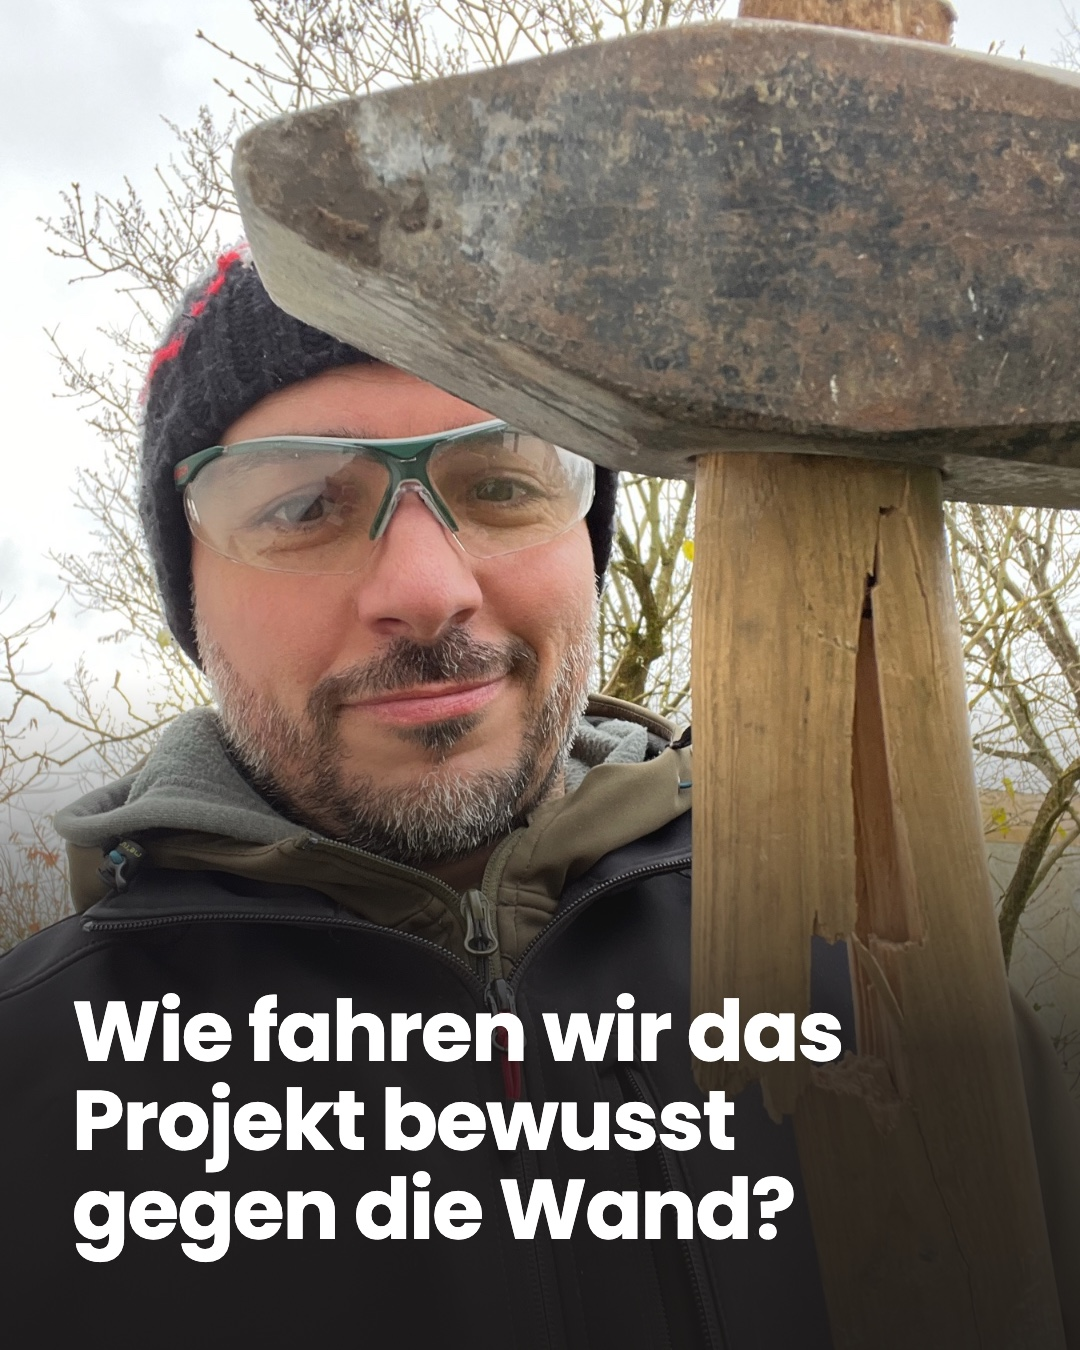
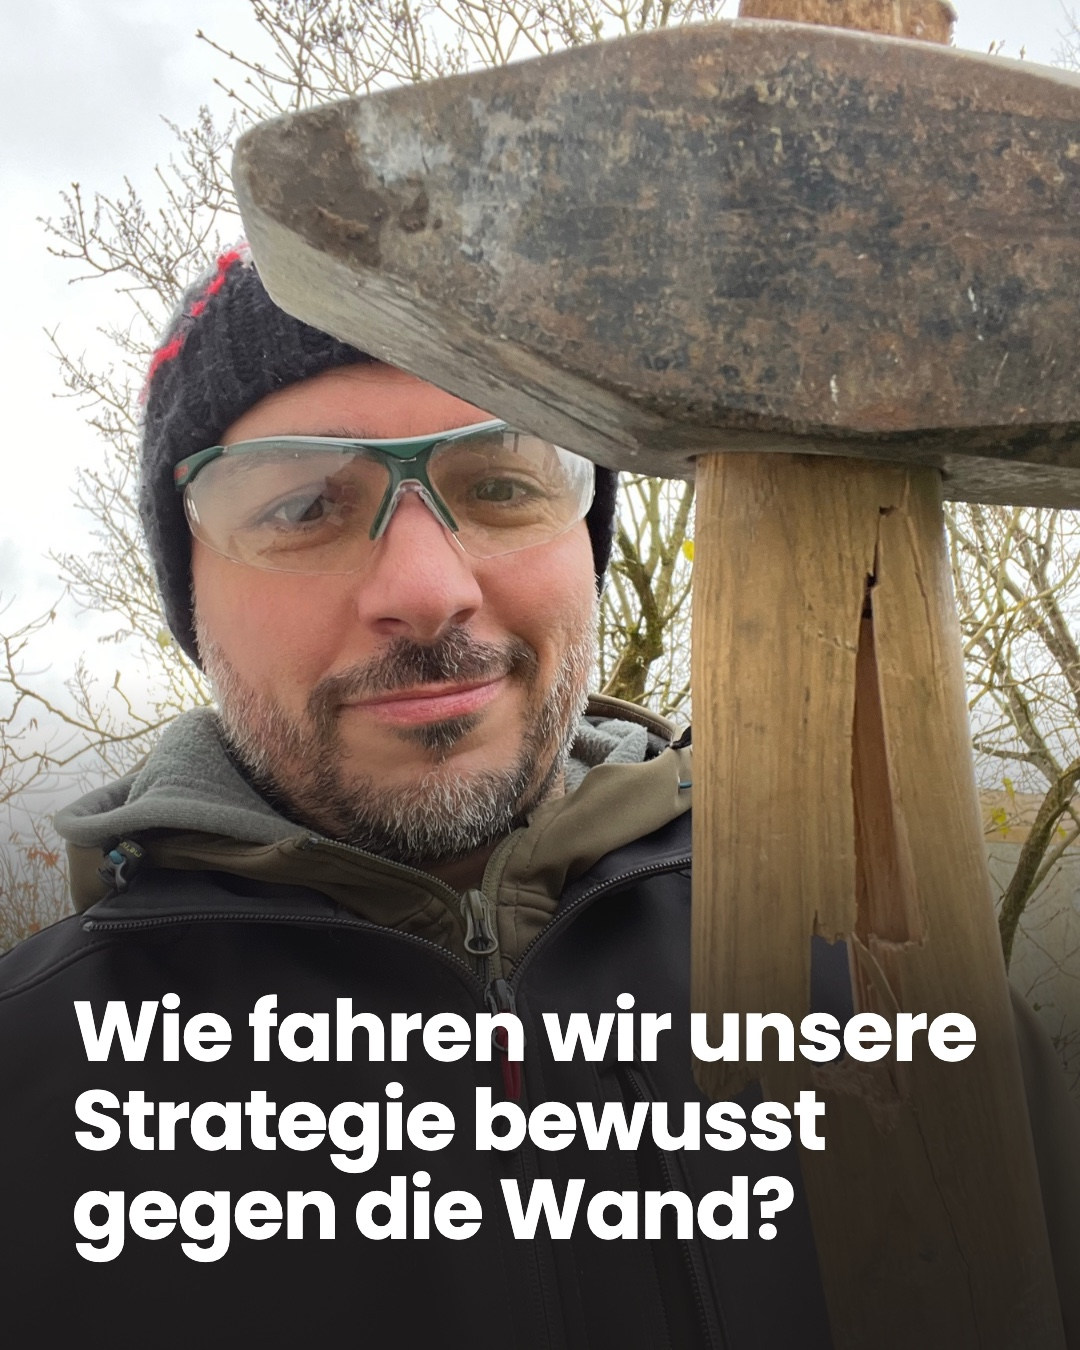
Posting 26.11.: Bildsatz auf Strategie statt Projekt

Changed region(s): [[0.0611, 0.7467, 0.9167, 0.8711]]

diff --git a/werkzeuge/medienkonzept/postings-vorlage.html b/werkzeuge/medienkonzept/postings-vorlage.html
@@ -1061,7 +1061,7 @@ html, body { width:1080px; background:#fff; }
 <section class="p vollbild" id="rp45"><img src="/assets/projekte/medienkonzept/foto-fenster-anzug.jpg" alt="" style="object-position:40% 40%;"><span class="chip">Tag 1 nach dem Strategiebeschluss</span><div class="verlauf" style="height:14%"></div><p class="namezeile" style="color:#d9d5cf">Daniel Ströbel</p></section>
 
 <section class="p vollbild" id="rp46"><img src="/assets/projekte/medienkonzept/foto-vorschlaghammer.jpg" alt="" style="object-position:50% 30%;"><div class="verlauf" style="height:50%"></div>
-  <p style="position:absolute;left:72px;right:72px;bottom:96px;font:800 84px/1.06 Poppins,sans-serif;letter-spacing:-.02em;color:#fff">Wie fahren wir das Projekt bewusst gegen die Wand?</p></section>
+  <p style="position:absolute;left:72px;right:72px;bottom:96px;font:800 84px/1.06 Poppins,sans-serif;letter-spacing:-.02em;color:#fff">Wie fahren wir unsere Strategie bewusst gegen die Wand?</p></section>
 
 <section class="p vollbild" id="rp47"><img src="/assets/projekte/medienkonzept/foto-buero-flagge.jpg" alt="" style="object-position:75% 40%;"><div class="verlauf" style="height:14%"></div><p class="namezeile" style="color:#d9d5cf">Daniel Ströbel</p></section>
 

diff --git a/werkzeuge/medienkonzept/kw48_49_bilder.py b/werkzeuge/medienkonzept/kw48_49_bilder.py
@@ -46,7 +46,7 @@ def sektionen(NAME, vb, SYS):
     return [
         satz_unten("rp44", "foto-seminarraum-hemd.jpg", "20% 50%", "Manchmal sind 70 Prozent genau richtig."),  # 24.11. neues Thema (Daniel 20.11.2026: Strategieberater-Thema raus)
         uhr("rp45", "foto-fenster-anzug.jpg", "40% 40%", "Tag 1 nach dem Strategiebeschluss"),  # Daniel 22.11.2026: „Danach.“ sinnbefreit                        # 25.11. (146) Strategie in der Schublade
-        frage_gross("rp46", "foto-vorschlaghammer.jpg", "50% 30%", "Wie fahren wir das Projekt bewusst gegen die Wand?"),  # 26.11. (147) Daniel 22.11.2026: Foto mit kaputtem Vorschlaghammer
+        frage_gross("rp46", "foto-vorschlaghammer.jpg", "50% 30%", "Wie fahren wir unsere Strategie bewusst gegen die Wand?"),  # 26.11. (147) Daniel 26.11.2026: Text dreht sich um Strategie, nicht Projekt; Daniel 22.11.2026: Foto mit kaputtem Vorschlaghammer
         pur("rp47", "foto-buero-flagge.jpg", "75% 40%"),  # foto-schreiben lief schon am 27.10.                         # 27.11. (148) drei Abende
         pur("rp48", "foto-sw-hoodie.jpg", "50% 30%"),                                        # 28.11. (149) bis Daniels Foto der gelben E-Gitarre kommt
         satz_oben("rp49", "foto-gold.jpg", "50% 30%", "Regeln biegen,<br>ohne sie zu brechen."),  # 29.11. (150) Monopoly – Porträt statt Spielbrett
